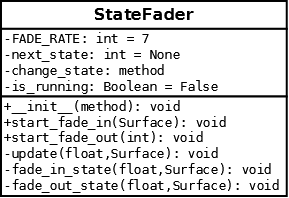
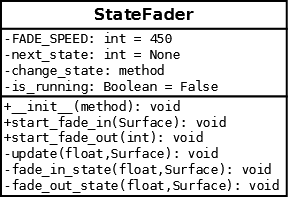
StateFader: Use a time-based fade speed
Instead of incrementing or decrementing the State Surface alpha by a
fixed value in FADE_RATE, the fade could be made much smoother by
multiplying a FADE_SPEED value by the amount of time elapsed and adding
or subtracting that from the Surface alpha.

This is because the game's frame rate is slightly inconsistent.

Changed region(s): [[0.2803, 0.1515, 0.5917, 0.2424], [0.1557, 0.1515, 0.2491, 0.2424]]

diff --git a/lib/game_states/state_fader.py b/lib/game_states/state_fader.py
@@ -5,8 +5,8 @@ class StateFader(object):
     game processing once the fade finishes.
 
     Class Constants:
-        FADE_RATE: An integer for the amount of alpha transparency gained
-            or lost by the State Surface during each update cycle.
+        FADE_SPEED: An integer for the speed of the fade, in alpha value
+            gained/lost per second.
 
     Attributes:
         next_state: An integer for the ID of the next Game State to go
@@ -20,7 +20,7 @@ class StateFader(object):
         is_running: A Boolean indicating whether the fade is still
             running.
     """
-    FADE_RATE = 7
+    FADE_SPEED = 450
 
     def __init__(self, change_state):
         """Declare and initialize instance variables.
@@ -58,12 +58,14 @@ class StateFader(object):
         self.next_state = next_state
         self.is_running = True
 
-    def fade_in_state(self, state_surf):
+    def fade_in_state(self, time, state_surf):
         """Fade in a Game State's Surface.
 
         The fade will end once the Surface is completely opaque.
 
         Args:
+            time: A float for the time elapsed, in seconds, since the
+                last update cycle.
             state_surf: A Surface containing all of a Game State's
                 graphical components.
         """
@@ -71,15 +73,17 @@ class StateFader(object):
         if old_alpha >= 255:
             self.is_running = False
         else:
-            state_surf.set_alpha(old_alpha + self.FADE_RATE)
+            state_surf.set_alpha(old_alpha + (self.FADE_SPEED * time))
 
-    def fade_out_state(self, state_surf):
+    def fade_out_state(self, time, state_surf):
         """Fade out a Game State's Surface.
 
         The fade will end once the Surface is completely transparent.
         Once this happens, the game will switch to the next Game State.
 
         Args:
+            time: A float for the time elapsed, in seconds, since the
+                last update cycle.
             state_surf: A Surface containing all of a Game State's
                 graphical components.
         """
@@ -88,4 +92,4 @@ class StateFader(object):
             self.is_running = False
             self.change_state(self.next_state)
         else:
-            state_surf.set_alpha(old_alpha - self.FADE_RATE)
+            state_surf.set_alpha(old_alpha - (self.FADE_SPEED * time))
